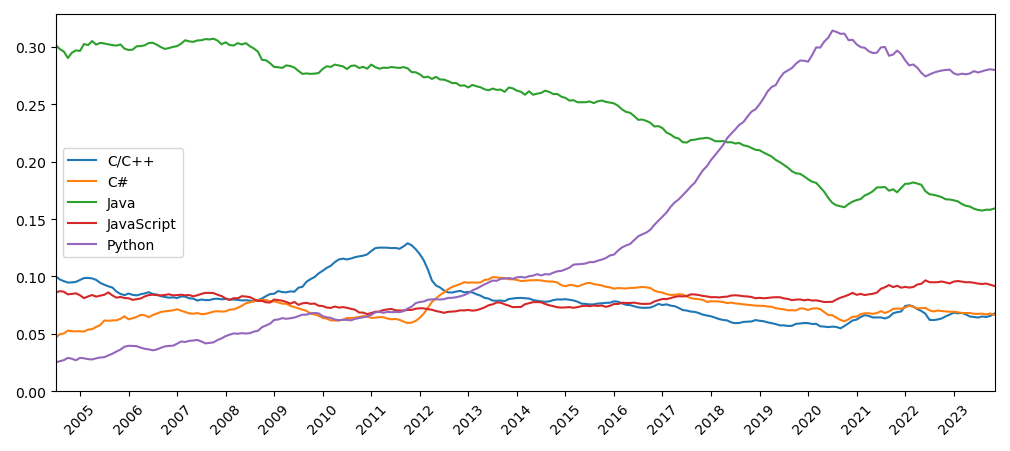
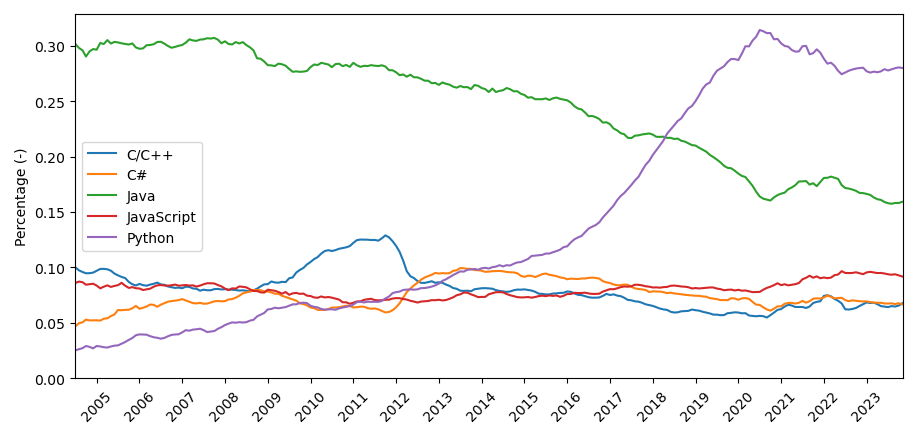
lab 11 update

diff --git a/labs/lab11.md b/labs/lab11.md
@@ -30,13 +30,13 @@ This week we have ... different exercises that range in difficulty:
  * Exercise 1: [Filter, Map & List Comprehensions]() (standard)
    * Exercise 1a: [Filter]() (standard)
    * Exercise 1b: [Map]() (standard)
-   * Exercise 1c: [Combining filters & maps]() (challenge: medium)
- * Exercise 2: [Other Comprehensions]() (challenge: medium)
+   * Exercise 1c: [Combining filters & maps]() (challenge, medium)
+ * Exercise 2: [Other Comprehensions]() (challenge, medium)
  * Exercise 3: [Line plots]() (standard)
    * Exercise 3a: [Sine & Cosine Plot]() (standard)
-   * Exercise 3b: [Sine & Cosine Extended Plot]() (challenge: hard)
-   * Exercise 3c: [Programming Languages Through Time]() (standard)
- * Exercise 4: 
+   * Exercise 3b: [Sine & Cosine Extended Plot]() (challenge, hard)
+   * Exercise 3c: [Programming Languages Through Time]() (challenge, hard)
+ * Exercise 4: [Scatter Plots]() (standard)
 
 All students, regardless of experience, should be able to complete the ... standard exercises. Whether you complete all ... is up to you.
 
@@ -154,7 +154,7 @@ new_lst = [func1(v) if ... else func2(v) for v in original_lst]
 
 Now, open `map.py` and follow the instructions. In this exercise, we will start implementing a map behavior using a for loops and a new lists. Each successive function has the same behavior but asks you to code it a bit different to work slowly towards using the `map` function.
 
-### Exercise 1c: Combining filters & maps (challenge: medium)
+### Exercise 1c: Combining filters & maps (challenge, medium)
 
 Now, that we have seen both filters and maps, we can also combine them in a list comprehension. There, is no equivalent python function to do this but you could chain filter and map as follows `map(func1, filter(func2, lst))`. Here, we first filter and then map which is more efficient but the other way around would also work. An example of a list comprehension that is a filter and map at the same time would be:
 
@@ -195,7 +195,7 @@ Again, here the `if else` statement can better be written as a ternary statement
 
 Now, open `combine_map_and_filter.py` and follow the instructions. In this exercise, we will start implementing a map and filter behavior using a for loops and a new lists. Each successive function has the same behavior but asks you to code it a bit different to work slowly towards using the combination of `filter` and `map` function.
 
-## Exercise 2: Other Comprehensions (challenge: medium)
+## Exercise 2: Other Comprehensions (challenge, medium)
 
 List comprehensions are probably the most used comprehension, however, in this exercise, we will look at other comprehensions. There are three other types of comprehensions: sets, dictionaries, generators. There are no tuple nor string comprehensions because of their immutable nature. Later, we will discuss how to use effectively make them. 
 
@@ -258,7 +258,7 @@ new_array  = np.fromiter((v for v in iterable), float)  # You must know the type
 
 Now, open `other_comprehensions.py` and follow the instructions. 
 
-## Plotting With Matplotlib (standard)
+## Plotting With Matplotlib
 
 Explain:
  * The plots:
@@ -275,12 +275,12 @@ Explain:
    * xticks
    * colors (reference to all colors)
  * loading and saving data with numpy
- * linspace
+ * combining f-strings, r-strings and using (la)tex in matplotlib
 
 
-## Exercise 3: Line plots (standard)
+## Exercise 3: Line Plots (standard)
 
-In this exercise, you will practise with plotting lines and several things related to plotting lines, such as, labeling data, coloring space between lines and changing axis labels. All the functions to do this are explained in the general section about matplotlib, see [Plotting With Matplotlib]().
+In this exercise, you will practise with plotting lines and several things related to plotting lines, such as, labeling data, coloring space between lines and changing axis labels. All the functions to do this are explained in the general section about matplotlib, see [Plotting With Matplotlib](https://joshhug.github.io/LeidenITP/labs/lab11/#plotting-with-matplotlib-).
 
 ### Exercise 3a: Sine & Cosine Plot (standard)
 
@@ -290,7 +290,7 @@ Now, open `fill_between_lines.py` and follow the instructions.
 
 ![image](/LeidenITP/assets/images/lab11/lineplot.png)
 
-### Exercise 3b: Sine & Cosine Extended Plot (challenge: hard)
+### Exercise 3b: Sine & Cosine Extended Plot (challenge, hard)
 
 Try to recreate the plot below. Here, we will add a colored surface between the sine and cosine function, which is colored orange. Also, we set the x-axis labels to fractions of pi and finally create a visible x-axis.
 
@@ -298,20 +298,29 @@ Now, continue working on `fill_between_lines.py` and follow the instructions.
 
 ![image](/LeidenITP/assets/images/lab11/lineplot_extra.png)
 
-### Exercise 3c: Programming Languages Through Time (standard)
+### Exercise 3c: Programming Languages Through Time (challenge, hard)
 
-Try to recreate the plot below. Here, we will make a plot containing the percentages for the five most used programming languages throughout the last two decades.  
+Try to recreate the plot below. Here, we will make a plot containing the percentages for the five most used programming languages throughout the last two decades. In this exercise, we will work with real data which can be found at [pypl](https://pypl.github.io/PYPL.htmlhttps://pypl.github.io/PYPL.html). The data can also be loaded from `programming_time_data.npy` located in the data folder. 
+
+For this plot, we will continue creating our own x-axis labels which are also rotated 45 degrees to make them more readable. Similar to the previous plots, make sure that the lines stop and start at the border of the images and that the y values start at zero. Also, give the y-axis a label as well as each line a label and color. Lastly, you can try to plot all lines using one `plt.plot` function. This can be done by giving a matrix (2D array) as input instead of a vector (1D array).
 
 Now, open `programming_history.py` and follow the instructions.
 
 ![image](/LeidenITP/assets/images/lab11/programming_time.png)
 
+## Exercise 4: Scatter Plots (standard)
+
+In this exercise, you will practise using scatter plots. All the functions to be able to do this are explained in the general section about matplotlib, see [Plotting With Matplotlib](https://joshhug.github.io/LeidenITP/labs/lab11/#plotting-with-matplotlib-).
+
+## Exercise 4a: Random 2D noise (standard)
+
+
+![image](/LeidenITP/assets/images/lab11/scatter_plot.png)
+
 
 
 
 matplotlib (plt.plot, plt.bar, plt.hist, plt.scatter, plt.imshow)
-
-* line plot: fill-in between lines, language trough time https://pypl.github.io/PYPL.html
 * bar plot: most popular programming langauge https://pypl.github.io/PYPL.html, lab 9 Exercise 3c: Displaying dictionaries with counts
 * scatter plot: random noise x,y;  sklearn.datasets.load_iris
 * histogram: alcohol, in wine sklearn
